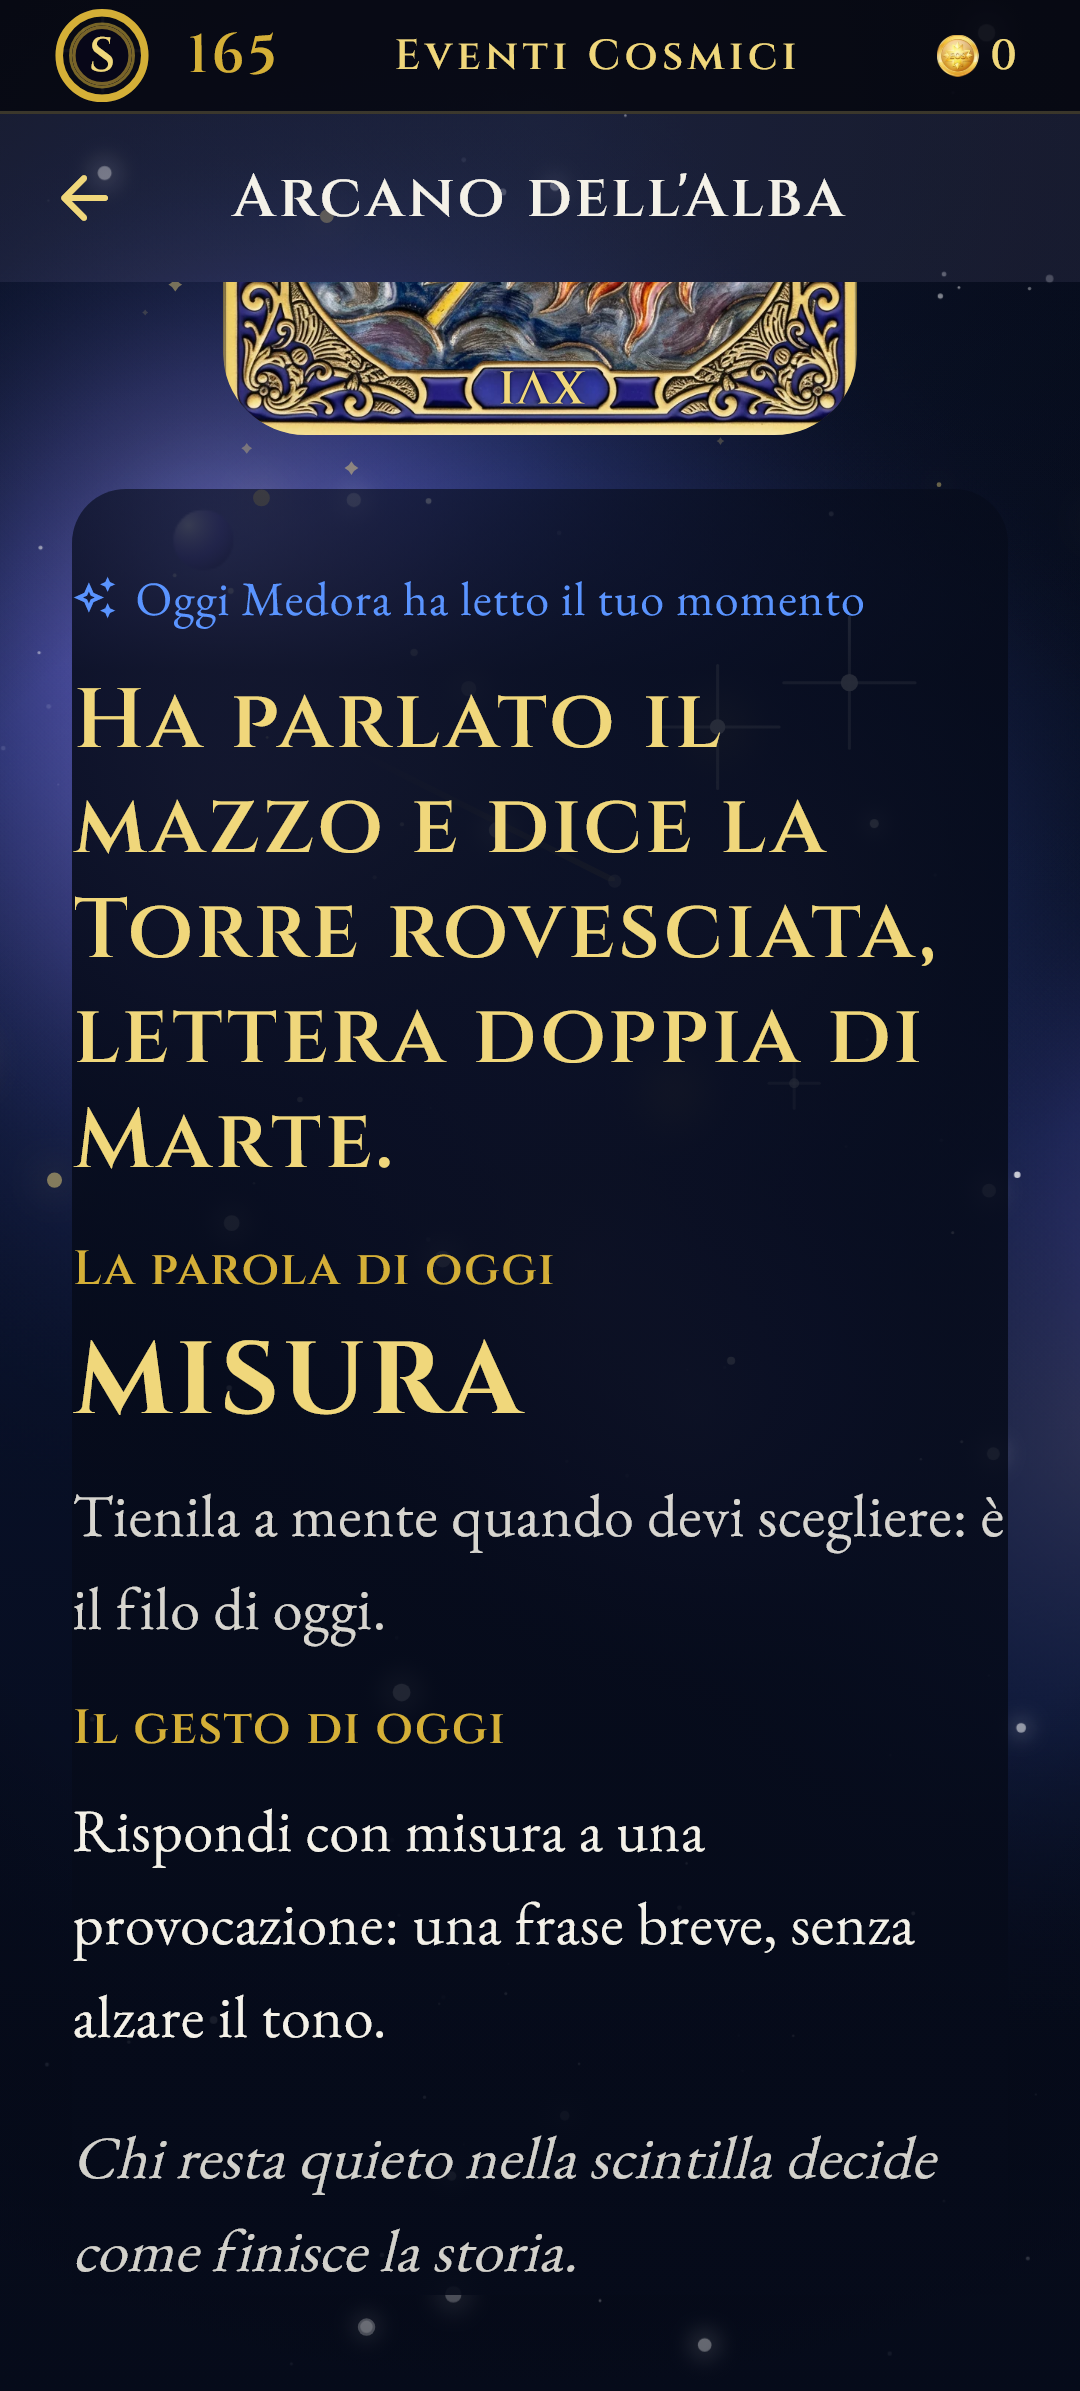
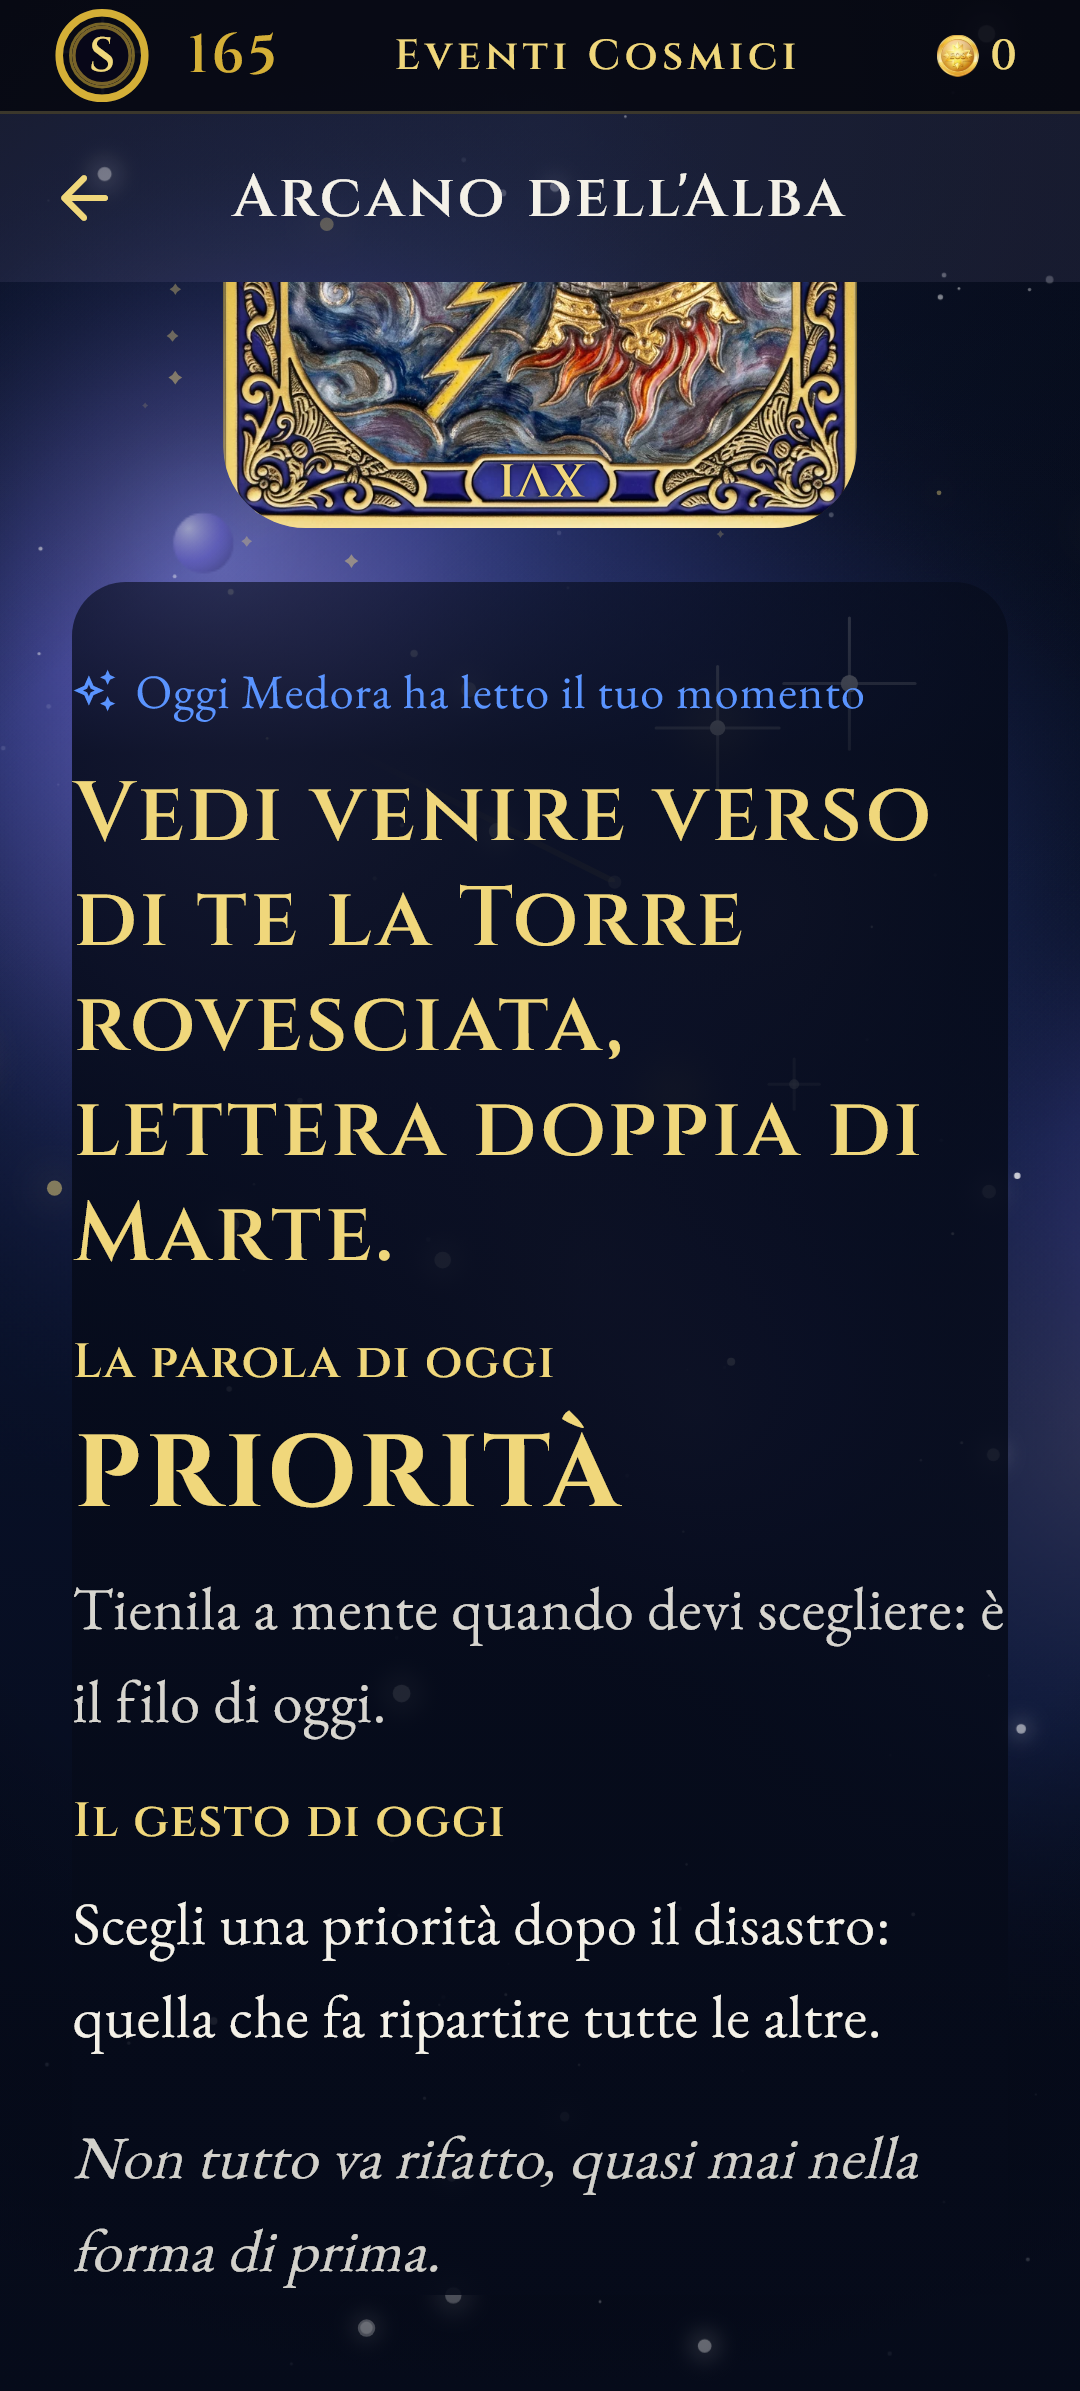
DU: il testo di lettura passa dalla porta comune, e le etichette prendono l'oro chiaro
Due guardie di casa sulla stesura di ieri sera.

- `etichette_e_lettura`: la riga che dice cosa fare della parola era un Text
  diretto nel ruolo lettura, cioe' la famiglia delle due porte, e da li' torna
  il muro di testo. Adesso passa da ParagrafiDiLettura come tutto il resto.
- `il_censimento_dei_grigi`: le etichette nuove sono testo piccolo e vogliono
  sette a uno. L'oro pieno di Aura sulla sua casa faceva 5,65, quello di Caligo
  6,42: prendono l'oro chiaro, che li porta tutti sopra la soglia.

diff --git a/lib/features/rituals/arcano_dell_alba_screen.dart b/lib/features/rituals/arcano_dell_alba_screen.dart
@@ -471,7 +471,11 @@ class _Etichetta extends StatelessWidget {
         testo,
         key: Key(chiave),
         style: TypographyTokens.titoloDiRiga().copyWith(
-          color: palette.gold,
+          // **L'oro chiaro, non l'oro pieno.** Un'etichetta e' testo piccolo e
+          // il censimento dei grigi le chiede sette a uno: l'oro pieno di Aura
+          // sulla sua casa fa 5,65, e l'etichetta si legge male proprio dove
+          // serve a orientare.
+          color: palette.goldSoft,
           letterSpacing: 0.6,
         ),
       );
@@ -525,10 +529,14 @@ class _TreMovimenti extends StatelessWidget {
                   .copyWith(color: palette.goldSoft, letterSpacing: 1.5),
             ),
             const SizedBox(height: SpacingTokens.xs),
-            Text(
-              'Tienila a mente quando devi scegliere: è il filo di oggi.',
+            // Il testo di lettura passa sempre dalla porta comune: un Text
+            // diretto nel ruolo lettura e' la famiglia delle due porte, e da
+            // li' torna il muro di testo.
+            ParagrafiDiLettura(
               key: const Key('arcano_alba_uso_della_parola'),
-              style: TypographyTokens.lettura().copyWith(
+              testo: 'Tienila a mente quando devi scegliere: '
+                  'è il filo di oggi.',
+              stile: TypographyTokens.lettura().copyWith(
                   color: ColorTokens.textPrimary.withValues(alpha: 0.88)),
             ),
             const SizedBox(height: SpacingTokens.md),

diff --git a/docs/tipografia/alba_contrasto.md b/docs/tipografia/alba_contrasto.md
@@ -27,16 +27,16 @@ Le **soglie** vengono da `RegimeChiaro`: 4.5 a 1 per il testo di lettura e di co
 | `arcano_alba_titolo` | prima del gesto | lib/features/rituals/arcano_dell_alba_screen.dart:239 | titoloScheda | 20 | 600 | #F4F1E8 | #0F1934 | **15.38** | 3.0 | si' |
 | `arcano_alba_richiamo` | a rito compiuto | lib/features/rituals/arcano_dell_alba_screen.dart:315 | cerimoniale | 28 | 600 | #D4AF37 | #131F3F | **7.71** | 3.0 | si' |
 | `arcano_alba_invito`, Scegli fra i ventidue arcani co... | a rito compiuto | lib/features/rituals/arcano_dell_alba_screen.dart:322 | lettura | 20 | 400 | #F4F1E8 | #0A1226 | **16.49** | 4.5 | si' |
-| `arcano_alba_faccia`, XII | a rito compiuto | lib/features/rituals/arcano_dell_alba_screen.dart:441 | display a misura | 3 | 600 | #F0D77B | #5C5962 | **4.81** | 4.5 | si' |
-| `arcano_alba_faccia`, L'APPESO | a rito compiuto | lib/features/rituals/arcano_dell_alba_screen.dart:441 | display a misura | 4 | 600 | #F0D77B | #050838 | **13.39** | 4.5 | si' |
+| `arcano_alba_faccia`, XII | a rito compiuto | lib/features/rituals/arcano_dell_alba_screen.dart:446 | display a misura | 3 | 600 | #F0D77B | #5C5962 | **4.81** | 4.5 | si' |
+| `arcano_alba_faccia`, L'APPESO | a rito compiuto | lib/features/rituals/arcano_dell_alba_screen.dart:446 | display a misura | 4 | 600 | #F0D77B | #050838 | **13.39** | 4.5 | si' |
 | `alba_riga_dono` | a rito compiuto | lib/design_system/components/riga_del_dono.dart:54 | corpo o didascalia | 16 | 400 | #5A94FF | #10162F | **6.04** | 4.5 | si' |
-| `arcano_alba_carta` | a rito compiuto | lib/features/rituals/arcano_dell_alba_screen.dart:500 | cerimoniale | 28 | 600 | #F0D77B | #0C1126 | **13.09** | 3.0 | si' |
-| `arcano_alba_etichetta_parola` | a rito compiuto | non trovato nel sorgente | display a misura | 16 | 600 | #D4AF37 | #070C1D | **9.25** | 4.5 | si' |
-| `arcano_alba_parola` | a rito compiuto | lib/features/rituals/arcano_dell_alba_screen.dart:518 | cerimonialeGrande | 34 | 700 | #F0D77B | #070C1C | **13.64** | 3.0 | si' |
-| `arcano_alba_uso_della_parola` | a rito compiuto | lib/features/rituals/arcano_dell_alba_screen.dart:525 | lettura | 20 | 400 | #D8D6D0 | #0A1024 | **12.99** | 4.5 | si' |
-| `arcano_alba_etichetta_gesto` | a rito compiuto | non trovato nel sorgente | display a misura | 16 | 600 | #D4AF37 | #0D1227 | **8.81** | 4.5 | si' |
-| `arcano_alba_dono`, Fai qualcosa di utile tenendolo... | a rito compiuto | lib/features/rituals/arcano_dell_alba_screen.dart:538 | lettura | 20 | 400 | #F4F1E8 | #10142A | **16.09** | 4.5 | si' |
-| `arcano_alba_medora`, I gesti che restano anonimi son... | a rito compiuto | lib/features/rituals/arcano_dell_alba_screen.dart:546 | lettura | 20 | 400 | #D4D2CD | #0C1024 | **12.40** | 4.5 | si' |
+| `arcano_alba_carta` | a rito compiuto | lib/features/rituals/arcano_dell_alba_screen.dart:509 | cerimoniale | 28 | 600 | #F0D77B | #0C1126 | **13.09** | 3.0 | si' |
+| `arcano_alba_etichetta_parola` | a rito compiuto | non trovato nel sorgente | display a misura | 16 | 600 | #F0D77B | #070C1D | **13.63** | 4.5 | si' |
+| `arcano_alba_parola` | a rito compiuto | lib/features/rituals/arcano_dell_alba_screen.dart:527 | cerimonialeGrande | 34 | 700 | #F0D77B | #070C1C | **13.64** | 3.0 | si' |
+| `arcano_alba_uso_della_parola`, Tienila a mente quando devi sce... | a rito compiuto | lib/features/rituals/arcano_dell_alba_screen.dart:536 | lettura | 20 | 400 | #D8D6D0 | #0A1024 | **12.99** | 4.5 | si' |
+| `arcano_alba_etichetta_gesto` | a rito compiuto | non trovato nel sorgente | display a misura | 16 | 600 | #F0D77B | #0D1227 | **12.99** | 4.5 | si' |
+| `arcano_alba_dono`, Fai qualcosa di utile tenendolo... | a rito compiuto | lib/features/rituals/arcano_dell_alba_screen.dart:551 | lettura | 20 | 400 | #F4F1E8 | #10142A | **16.09** | 4.5 | si' |
+| `arcano_alba_medora`, I gesti che restano anonimi son... | a rito compiuto | lib/features/rituals/arcano_dell_alba_screen.dart:559 | lettura | 20 | 400 | #D4D2CD | #0C1024 | **12.40** | 4.5 | si' |
 | `arcano_alba_titolo` | a rito compiuto | lib/features/rituals/arcano_dell_alba_screen.dart:239 | titoloScheda | 20 | 600 | #F4F1E8 | #151C3B | **14.74** | 3.0 | si' |
 
 Nessun testo sotto la sua soglia.
